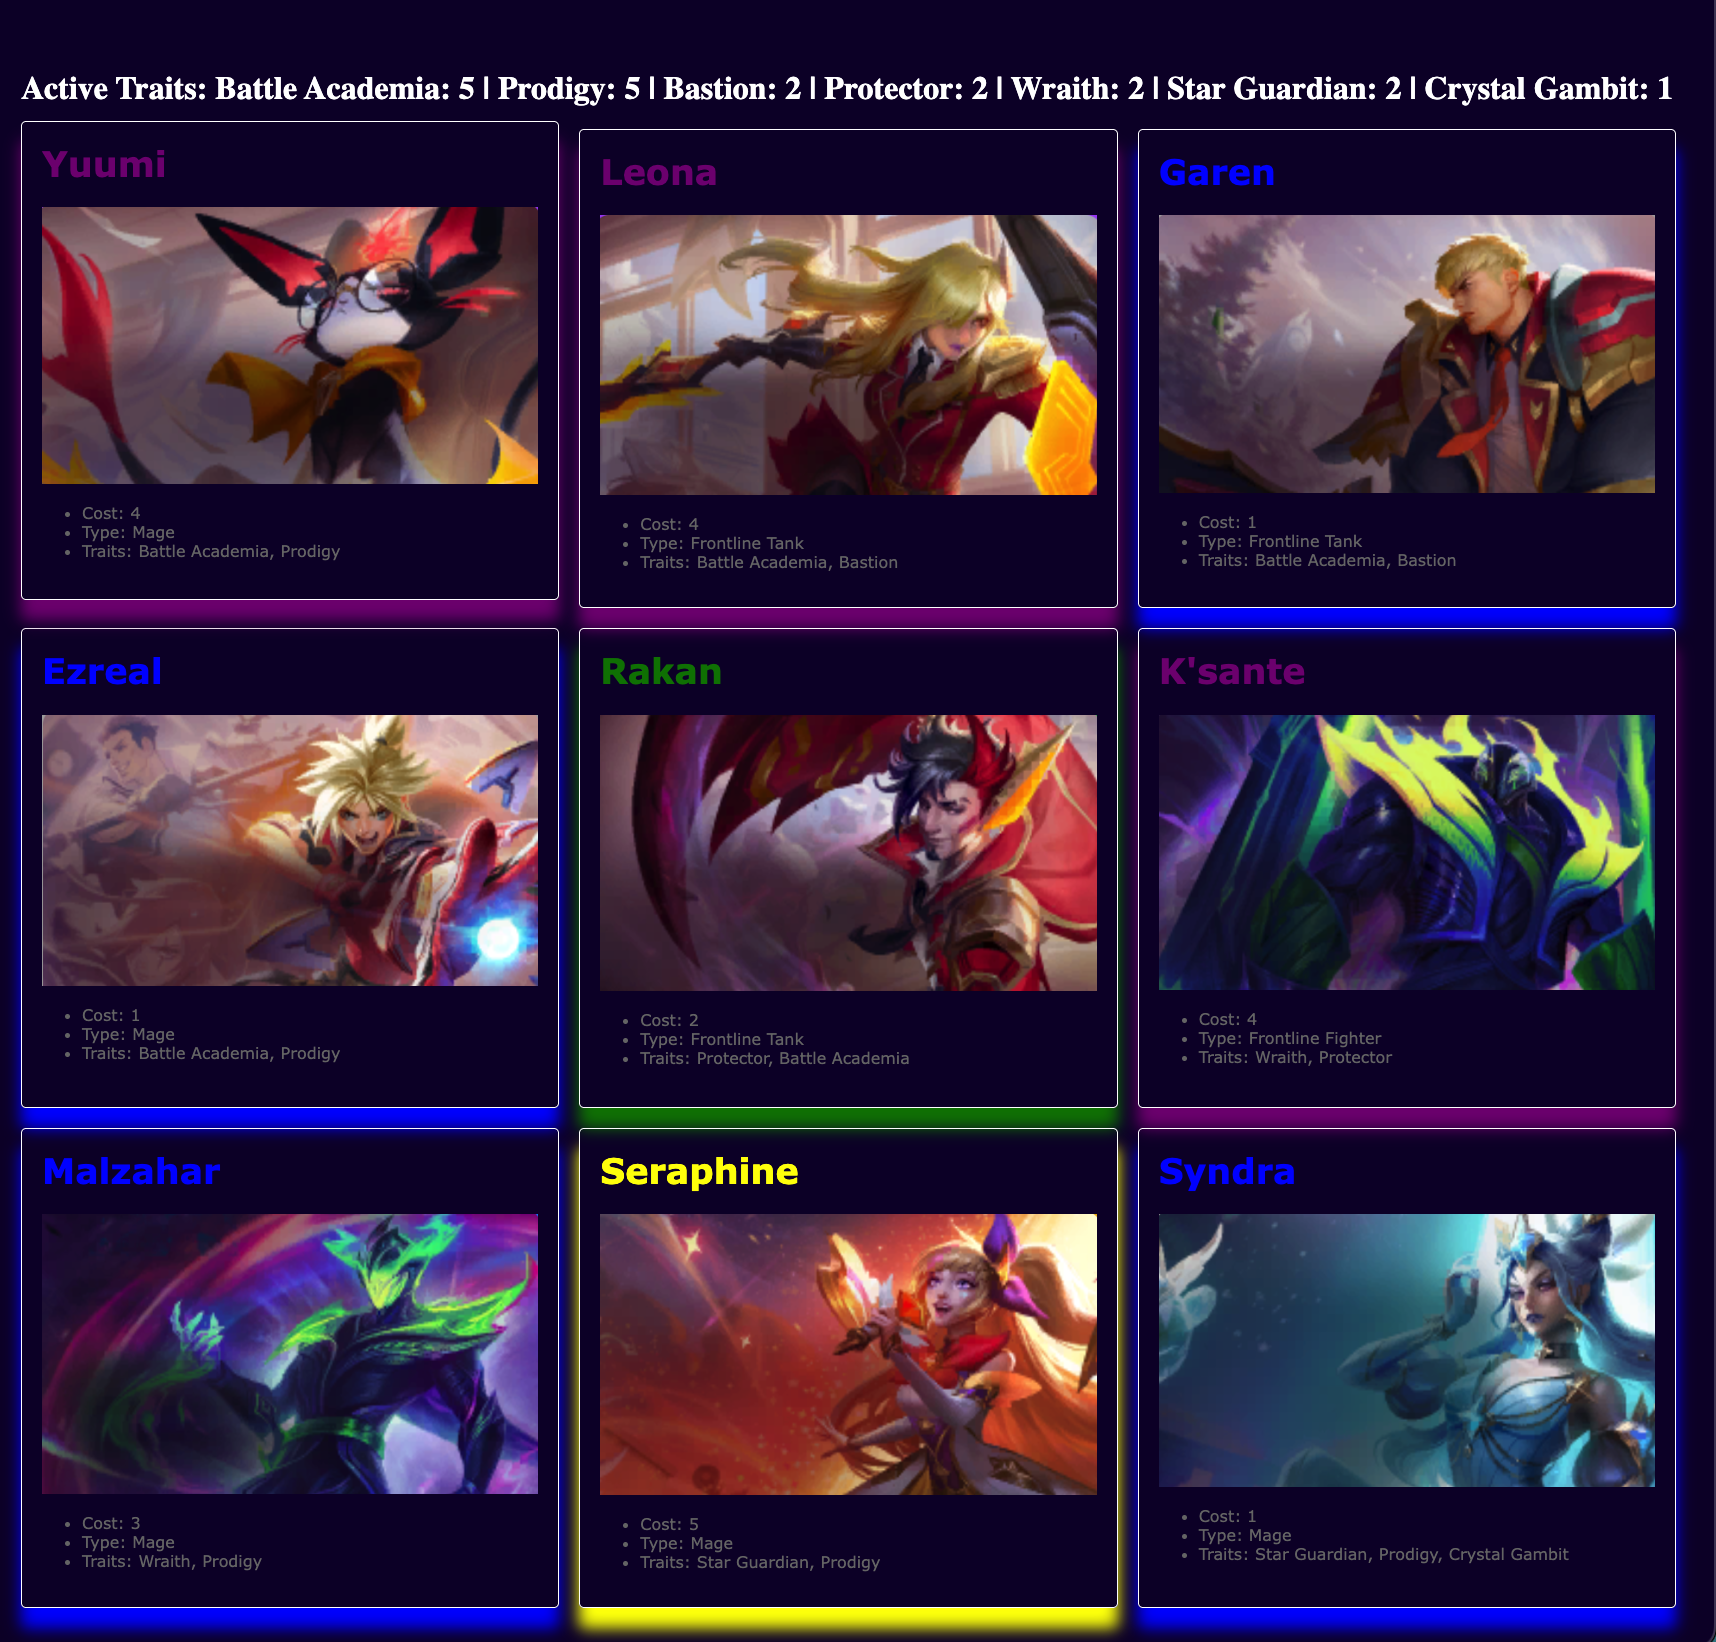
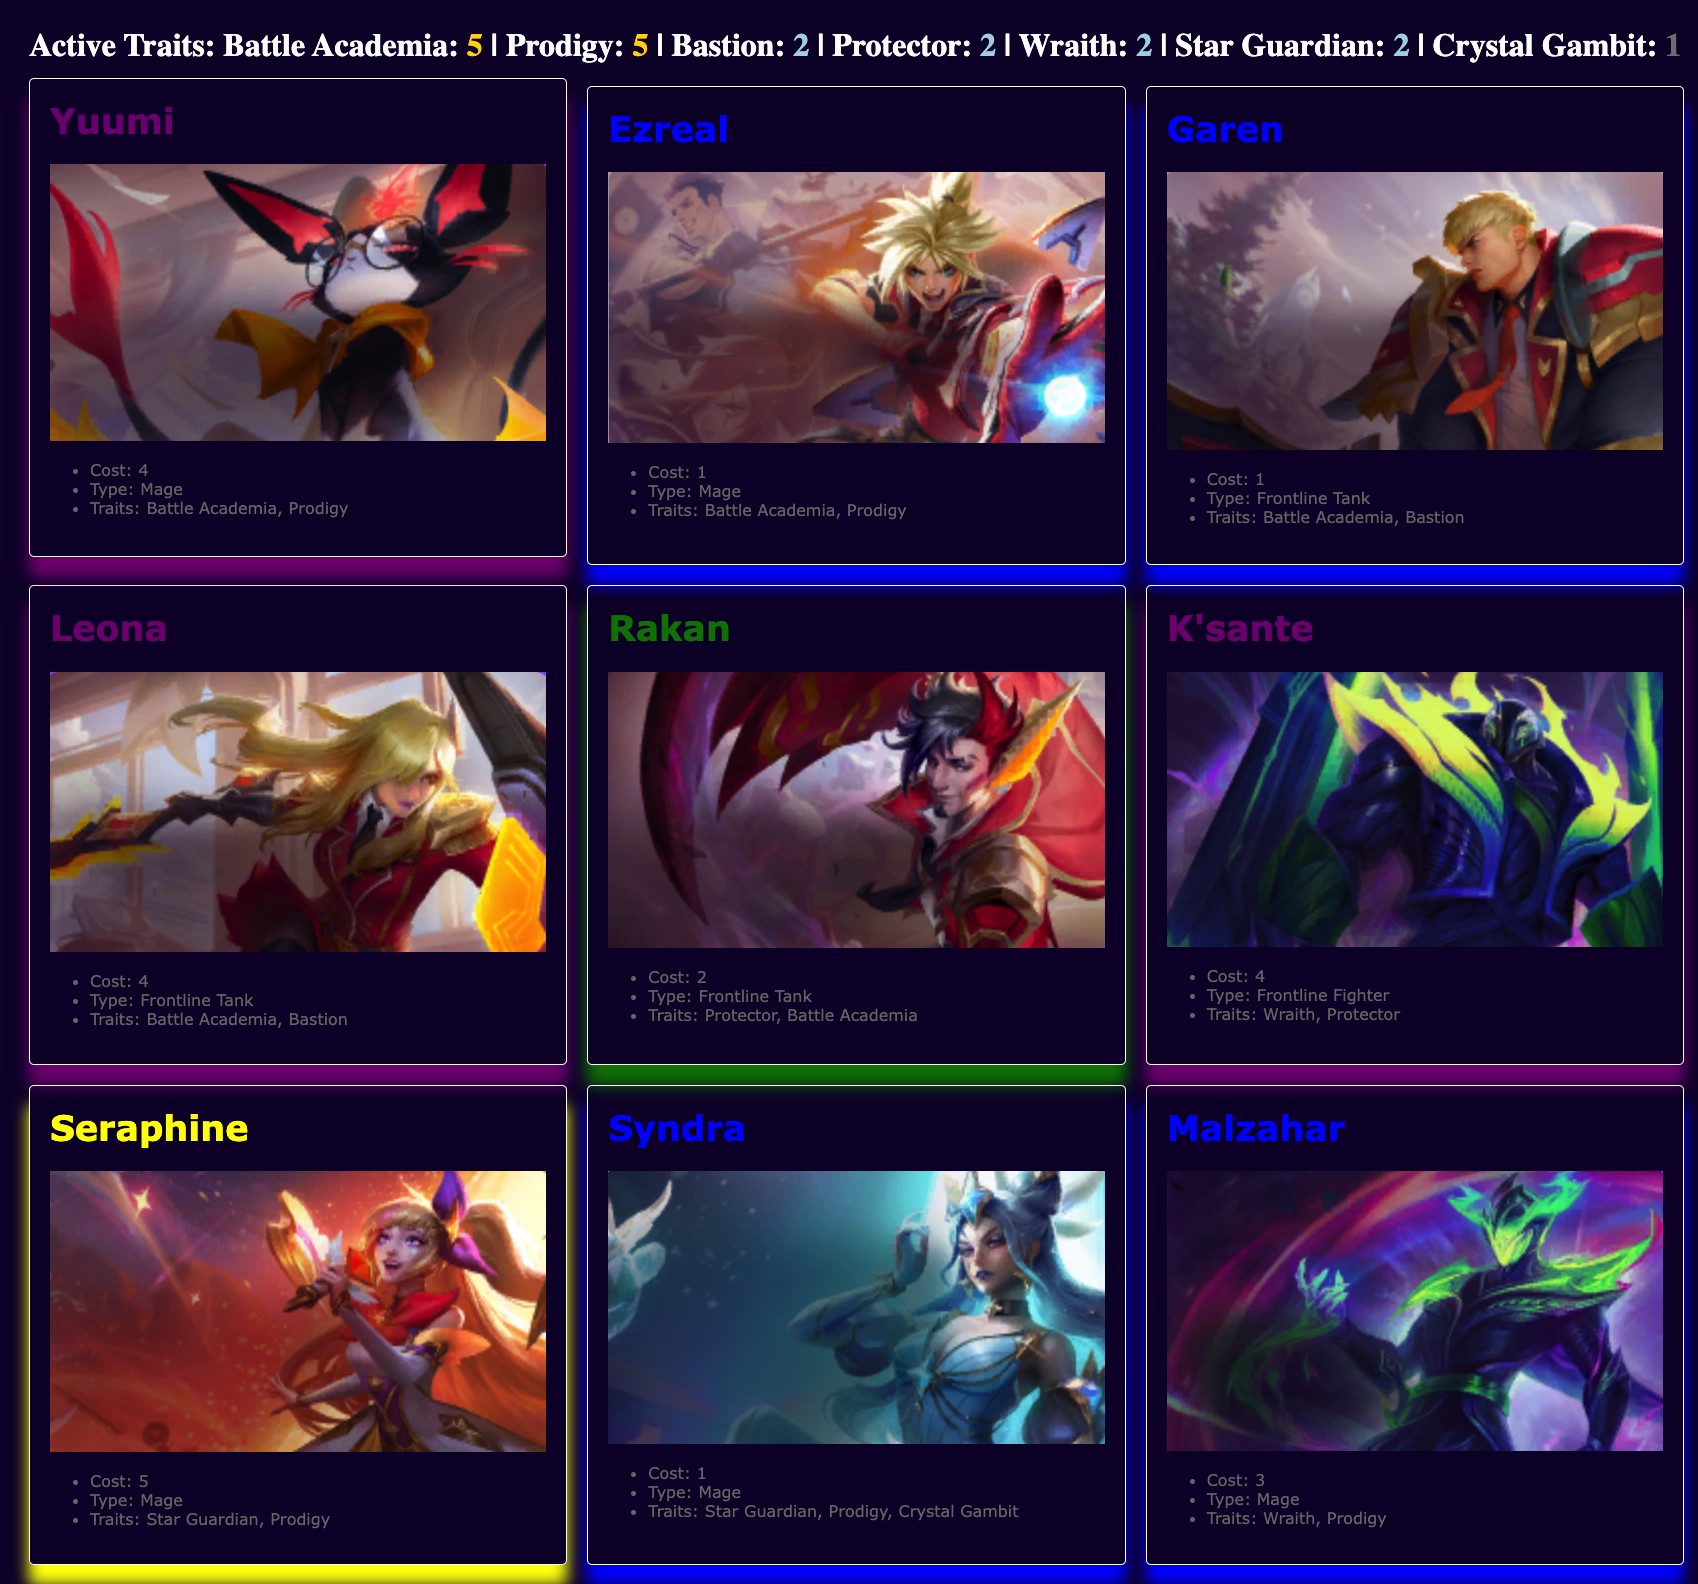
added color coding to trait tracker

diff --git a/scripts.js b/scripts.js
@@ -644,21 +644,35 @@ function updateTraits(){
 
       //get key value out of trait counter object
       const traitString = Object.entries(traitCounter)
-      .map(([trait,num]) => `${trait}: ${num}`) //.map runs once every pair to turn it into a string
-      .join(' | ') 
+      .map(([trait,num]) => {
+        //depending on trait count, will change text color
+        const color = getTraitColors(num);
+        return `${trait}: <span style="color: ${color}">${num} </span>`;
+        })//.map runs once every pair to turn it into a string
+        .join(' | ') 
       
       
       if(traitString == ''){
-        traitDisplay.textContent = 'Active Traits: '
+        traitDisplay.innerHTML = 'Active Traits: '
       }
       else{
-        traitDisplay.textContent = `Active Traits: ${traitString}`
+        traitDisplay.innerHTML = `Active Traits: ${traitString}`
       }
     })
   })
 
 
 }
+
+//get different colors to highlight trait combos
+function getTraitColors(num){
+  if(num == 1) {return 'gray'}
+  if(num == 2){ return 'lightblue' }
+  if(num == 3){ return 'green'}
+  if(num == 4){ return 'purple'}
+  if(num > 4) { return 'gold'}
+  
+} 
 
 // This calls the addCards() function when the page is first loaded
 document.addEventListener("DOMContentLoaded", function(){

diff --git a/index.html b/index.html
@@ -51,7 +51,7 @@
             <option value="Soul Fighter">Soul Fighter</option>
             <option value="Star Guardian">Star Guardian</option>
             <option value="Strategist">Strategist</option>
-            <option value="Supreme Cells">Srpreme Cells</option>
+            <option value="Supreme Cells">Supreme Cells</option>
             <option value="Wraith">Wraith</option>
             <option value="The Crew">The Crew</option>
           </select>
